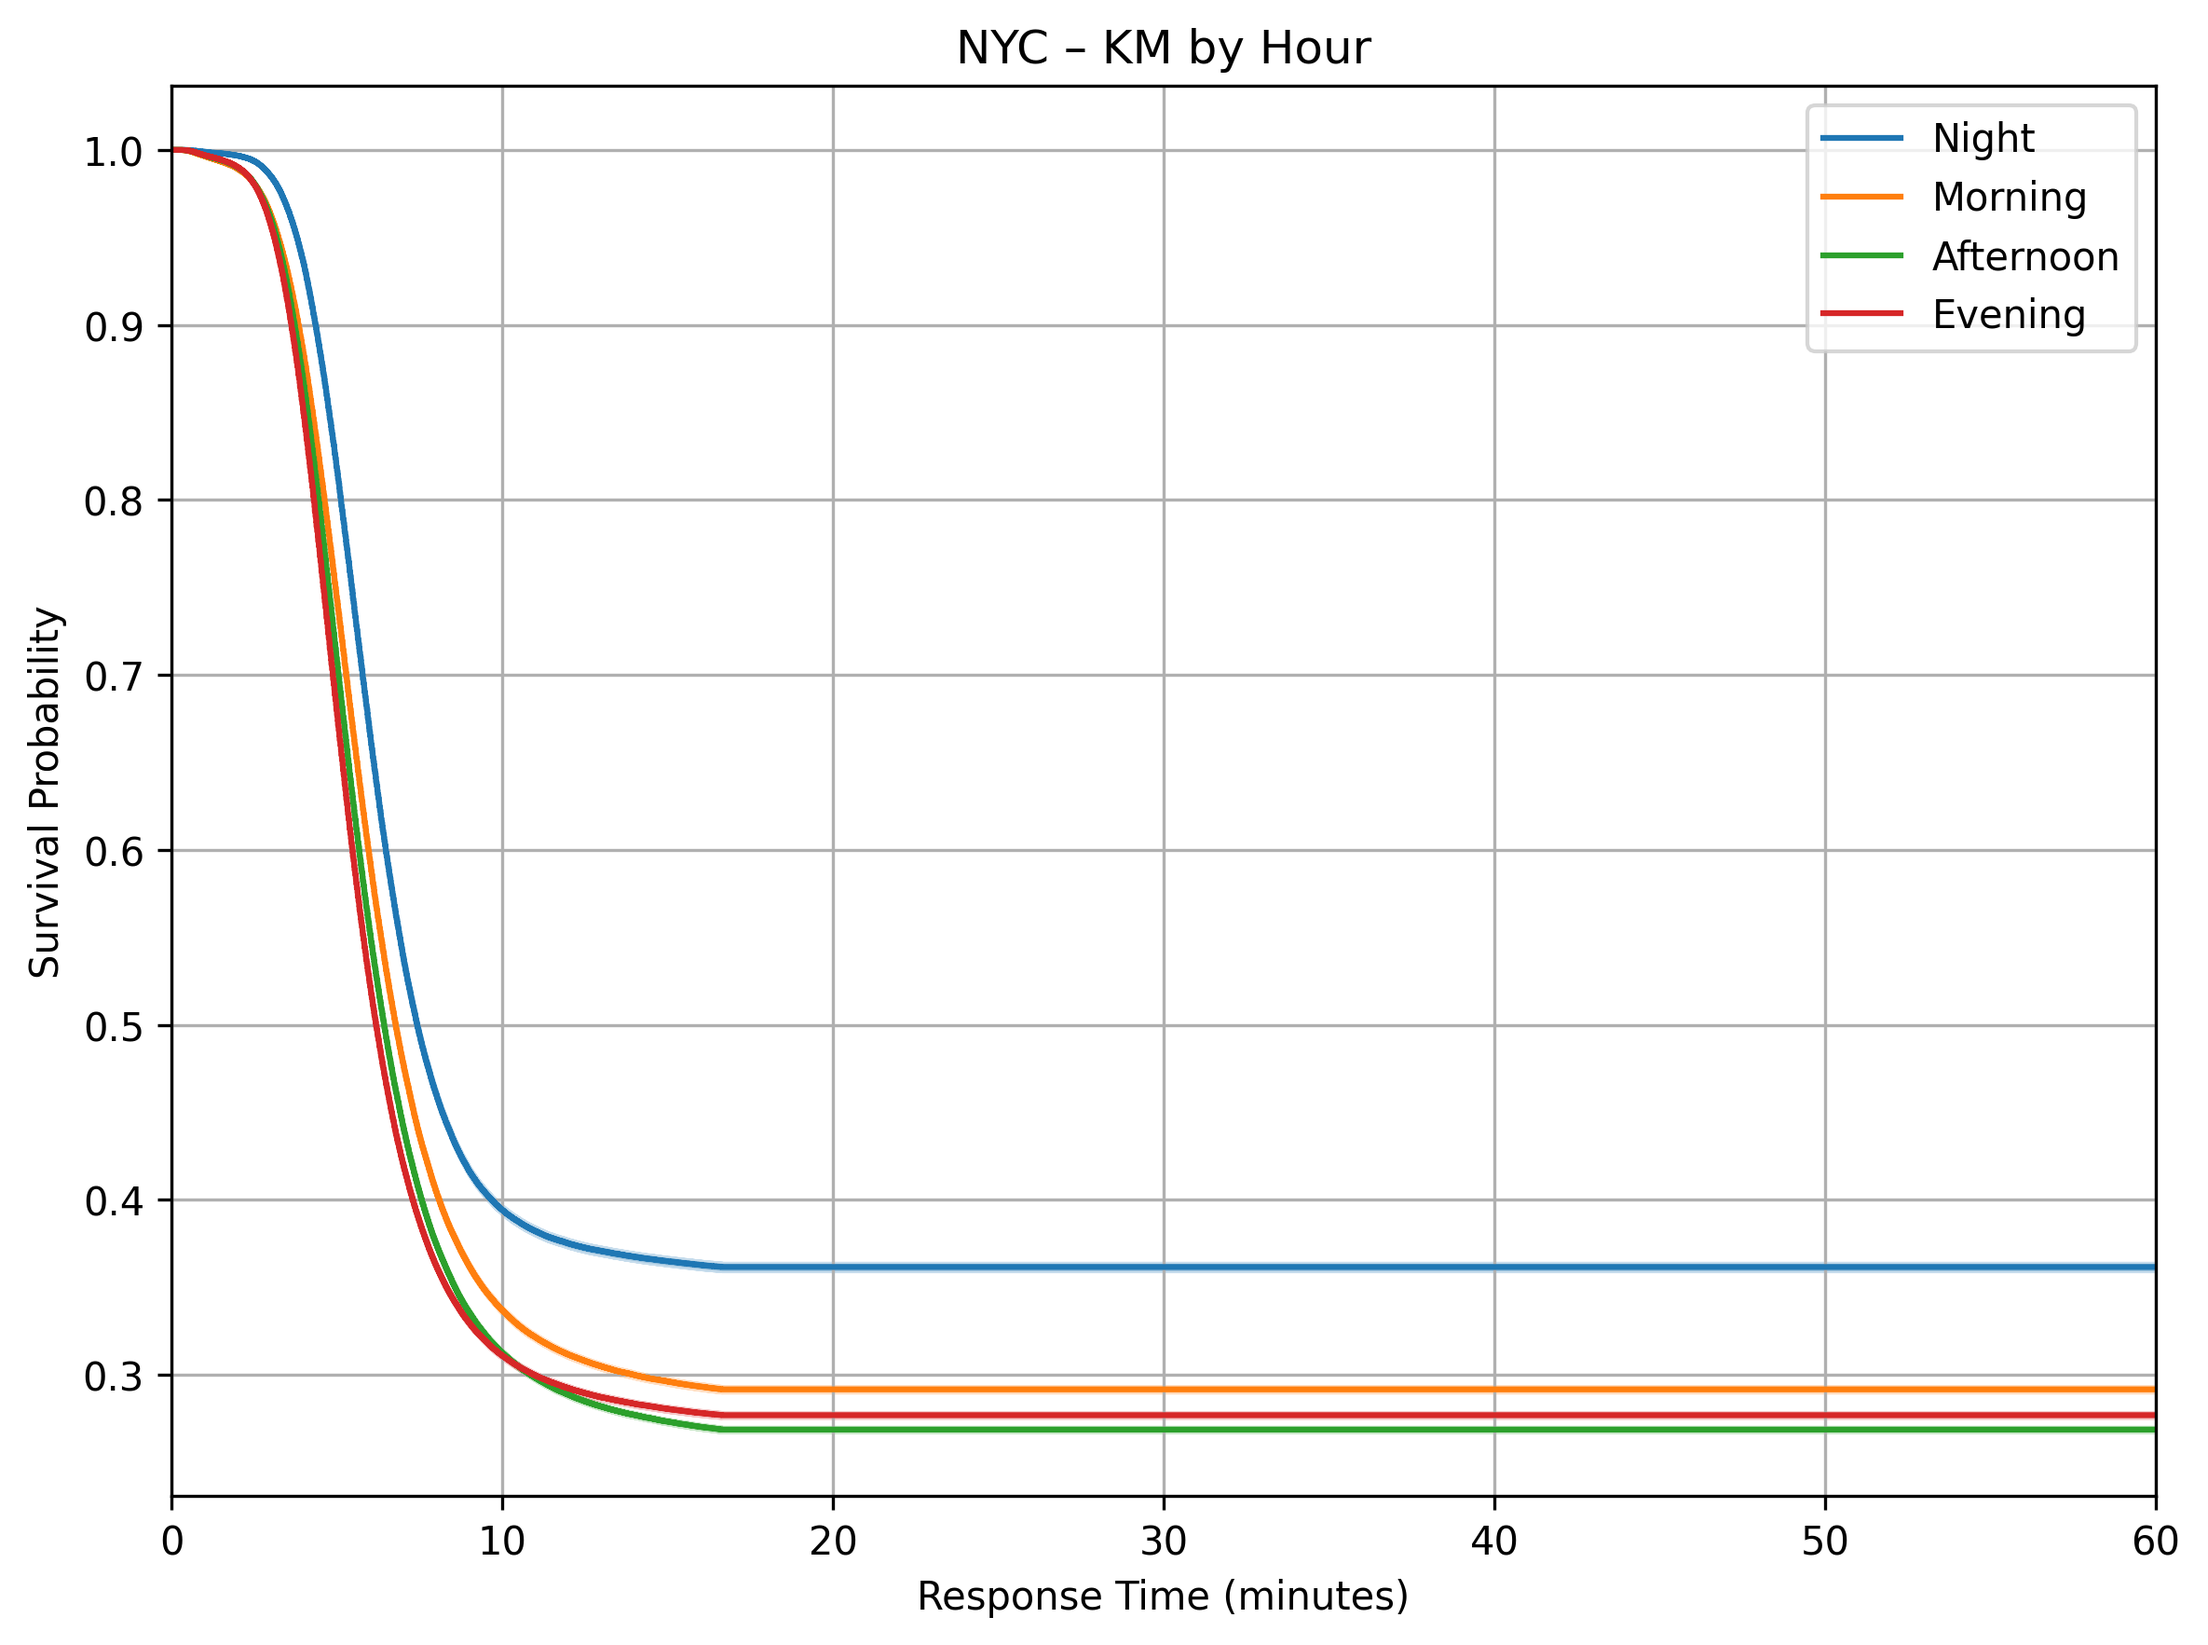
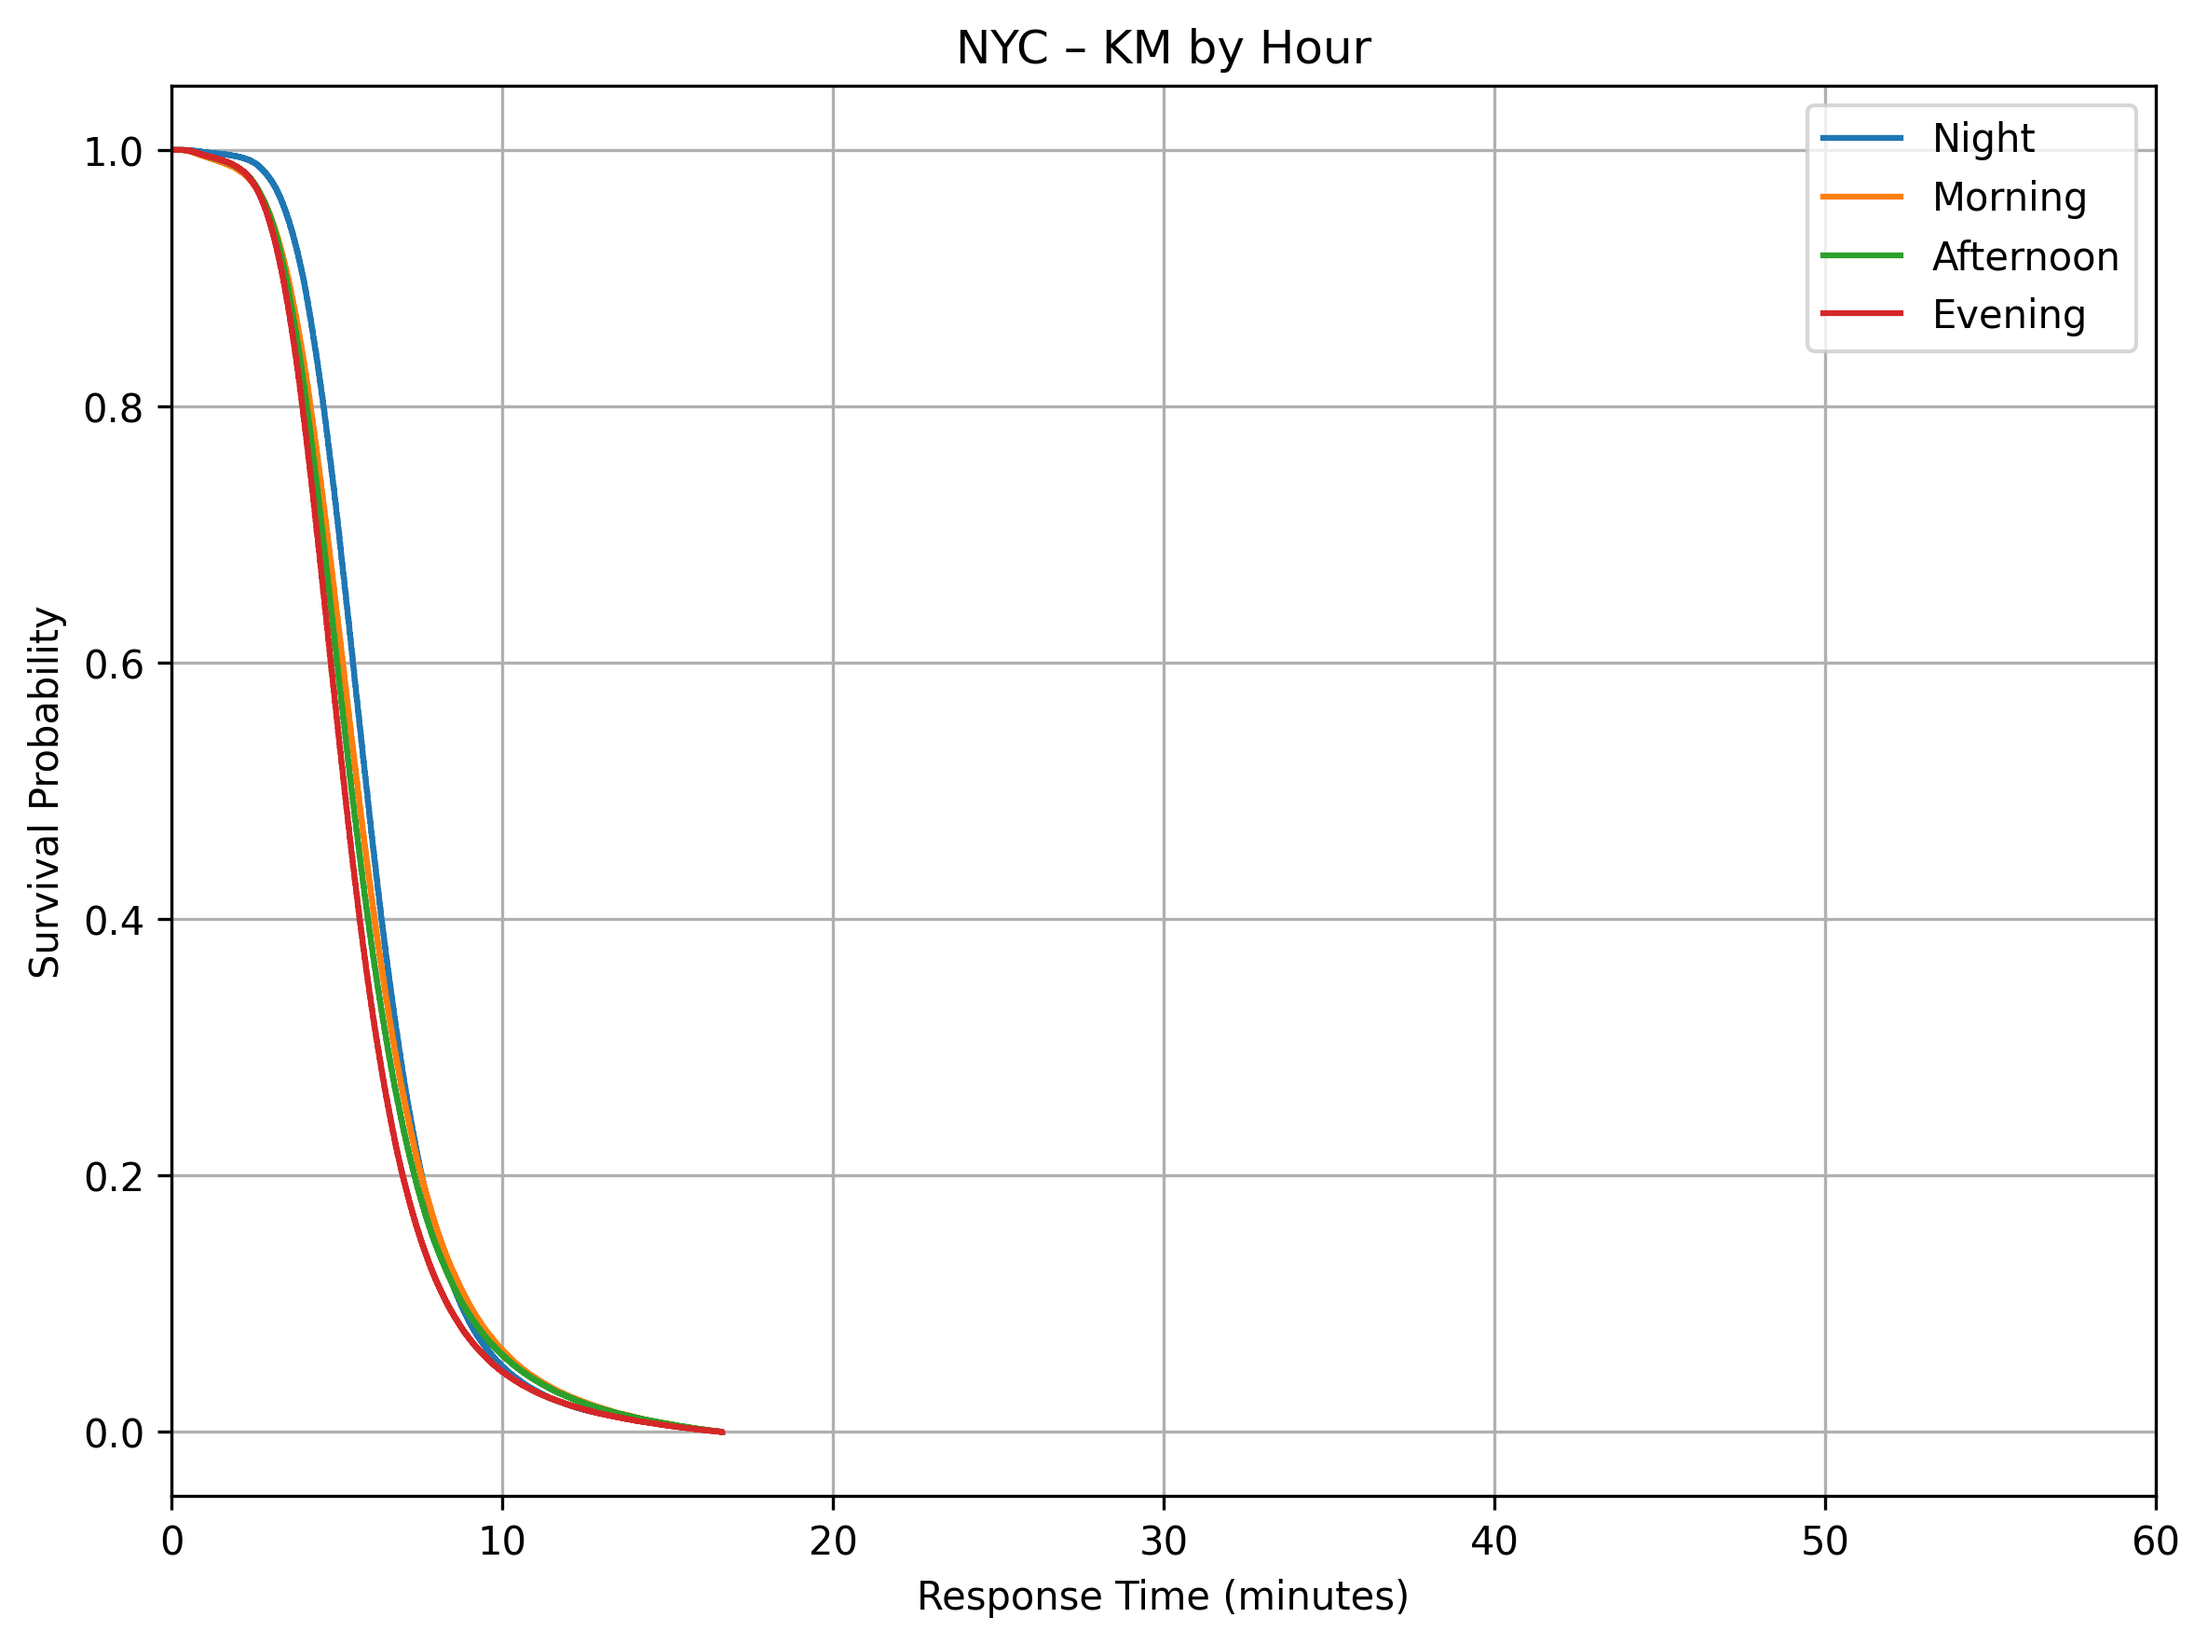
Implemented the change

diff --git a/notebooks/survial_analysis/stratified _survival_analysis.py b/notebooks/survial_analysis/stratified _survival_analysis.py
@@ -44,6 +44,11 @@ df_to = spark.read.table(TORONTO_TABLE).select(
     col("season"),
     col("day_of_week")
 )
+
+df_to = df_to.where(
+"duration_original is not null AND duration_original > 0 AND event_original is not null"
+)
+
 # Apply censoring: duration = min(duration_original, 60)
 df_to = df_to.withColumn(
     "response_minutes",
@@ -87,6 +92,11 @@ df_nyc = spark.read.table(NYC_TABLE).select(
     col("season"),
     col("day_of_week")
 )
+
+df_nyc = df_nyc.where(
+"duration_original is not null AND duration_original > 0 AND event_original is not null"
+)
+
 # Apply censoring duration
 df_nyc = df_nyc.withColumn(
     "response_minutes",
@@ -187,7 +197,7 @@ def plot_km_and_test(df_spark, city_name, group_col, strat_label, group_order=No
 results = []
 
 hour_order = ["Night","Morning","Afternoon","Evening"]
-season_order = ["winter","spring","summer","fall"]
+season_order = ["Winter","Spring","Summer","Fall","winter","spring","summer","fall"]
 dow_order = ["Sunday","Monday","Tuesday","Wednesday","Thursday","Friday","Saturday"]
 
 # Toronto
@@ -236,25 +246,50 @@ def logrank_summary(df_spark, city, strat_col):
         if len(s_at_60) > 0:
             risk_group = max(s_at_60, key=s_at_60.get)
 
+    if strat_col == "hour_group":
+        label = "Hour"
+    elif strat_col == "season":
+        label = "Season"
+    elif strat_col in ["day_of_week", "day_of_week_norm", "day_of_week_name"]:
+        label = "Day of Week"
+    else:
+        label = strat_col
     return {
         "City": city,
-        "Stratification": "Hour" if strat_col == "hour_group" else "Season",
+        "Stratification":label,
         "Test": "Log-rank",
         "p_value": pval,
         "Significant?": significant,
         "Higher-risk group (tail @60)": risk_group
     }
 
-results = []
-results.append(logrank_summary(df_to, "Toronto", "hour_group"))
-results.append(logrank_summary(df_nyc, "NYC", "hour_group"))
-results.append(logrank_summary(df_to, "Toronto", "season"))
-results.append(logrank_summary(df_nyc, "NYC", "season"))
 
-summary_df = pd.DataFrame(results)
-display(summary_df)
+# %%
+print(summary_df.columns.tolist())
 
-summary_path = f"/Workspace/Shared/DAMO_699-4-Capstone-Project/output/tables/logrank_summary_within_city.csv"
-summary_df.to_csv(summary_path, index=False)
-print("✅ Saved log-rank summary CSV:", summary_path)
+# %%
+print("----- US4.2 Interpretation Summary -----\n")
+
+risk_col = "Higher-risk group (tail @60)"
+has_risk = risk_col in summary_df.columns
+
+for _, row in summary_df.iterrows():
+    city = row.get("City", "Unknown")
+    strat = row.get("Stratification", "Unknown")
+    sig = row.get("Significant?", False)
+
+    risk = row[risk_col] if has_risk else None
+
+    if sig:
+        print(f"{city} – {strat}:")
+        print("Log-rank test indicates significant differences (p < 0.05).")
+
+        if has_risk and pd.notna(risk):
+            print(f"Higher delay-risk group (longer tail at 60 min): {risk}.")
+
+        print("Operational insight: Differences suggest temporal variation in response performance.")
+        print("Check whether curves diverge early (general speed) or mainly in the tail (extreme delays).")
+        print("")
+    else:
+        print(f"{city} – {strat}: No statistically significant differences detected.\n")
 
